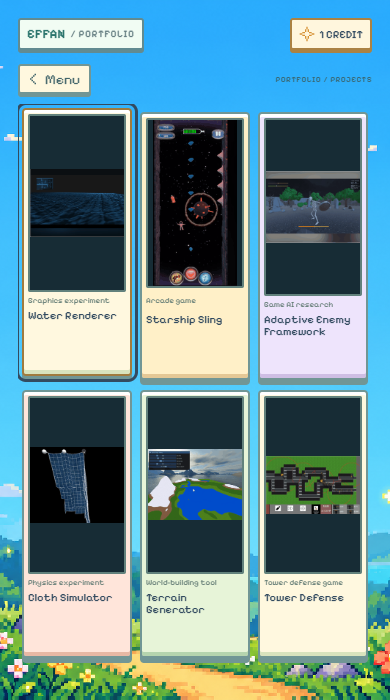
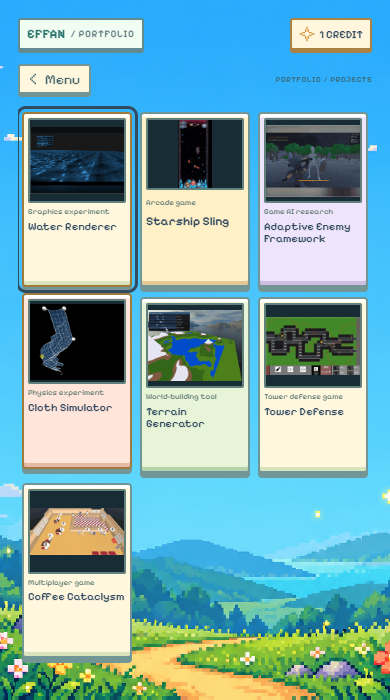
Added Coffee Cat Entry and optimized evth else

diff --git a/public/arcade-menu.css b/public/arcade-menu.css
@@ -243,8 +243,9 @@ body[data-view="projects"] main, body[data-view="detail"] main, body[data-view="
 .back-button:focus-visible, .project-card:focus-visible, .project-detail-scroll:focus-visible, .experience-list:focus-visible, .contact-link:focus-visible { outline: 3px solid var(--ink); outline-offset: 3px; }
 body[data-view="projects"] { overflow: hidden; }
 body[data-view="projects"] .screen { min-height: 0; }
-.project-grid { display: grid; grid-template-columns: repeat(3, minmax(0, 1fr)); grid-template-rows: repeat(2, minmax(0, 1fr)); gap: 12px; flex: 1; min-height: 0; overflow: hidden; padding: 8px 4px 10px; }
+.project-grid { display: grid; grid-template-columns: repeat(4, minmax(0, 1fr)); grid-template-rows: repeat(2, minmax(0, 1fr)); gap: 12px; flex: 1; min-height: 0; overflow: hidden; padding: 8px 4px 10px; }
 .project-grid > .card-float { min-height: 0; }
+.project-grid > .card-float[data-project="starship-sling"] { grid-column: span 2; }
 .project-card {
   display: flex; flex-direction: column; width: 100%; min-width: 0; height: 100%; min-height: 0; padding: 6px;
   border: 2px solid #719695; border-radius: 4px; background: #fff8df; color: var(--ink);
@@ -278,8 +279,8 @@ body[data-view="projects"] .screen { min-height: 0; }
 .project-story p { margin: 0 0 12px; }
 .project-story p:last-child { margin-bottom: 0; }
 /* Starship Sling is a portrait phone recording (368 x 732). */
-.project-card[data-project="starship-sling"] { display: grid; grid-template-columns: minmax(0, 1fr) minmax(0, 1fr); grid-template-rows: auto 1fr; gap: 4px 6px; }
-.project-card[data-project="starship-sling"] .project-preview { grid-row: 1 / 3; height: auto; aspect-ratio: 92 / 183; max-height: 100%; align-self: center; }
+.project-card[data-project="starship-sling"] { display: grid; grid-template-columns: minmax(0, 1fr) minmax(0, 1fr); grid-template-rows: auto 1fr; gap: 4px 8px; }
+.project-card[data-project="starship-sling"] .project-preview { grid-row: 1 / 3; width: auto; height: 100%; aspect-ratio: 92 / 183; max-height: 100%; align-self: center; justify-self: center; }
 .project-card[data-project="starship-sling"] .project-card-category { align-self: end; margin-top: 0; }
 .project-card[data-project="starship-sling"] .project-card-title { min-height: 0; margin-top: 0; }
 #project-detail-view[data-project="starship-sling"] .project-detail-scroll { display: grid; grid-template-columns: minmax(0, 142px) minmax(0, 1fr); gap: 0 18px; align-content: start; }
@@ -341,7 +342,7 @@ body[data-view="projects"] .screen { min-height: 0; }
 @keyframes view-arrive { from { opacity: 0; transform: translateY(8px); } to { opacity: 1; transform: translateY(0); } }
 @media (max-width: 480px) {
   .view-location { font-size: 8px; letter-spacing: .5px; }
-  .project-grid { gap: 10px 8px; }
+  .project-grid { grid-template-columns: repeat(3, minmax(0, 1fr)); grid-template-rows: repeat(3, minmax(0, 1fr)); gap: 10px 8px; }
   .project-card { padding: 4px; }
   .project-card-category { font-size: 8px; }
   .project-card-title { min-height: 5.5em; font-size: 11px; }

diff --git a/public/arcade-projects.js b/public/arcade-projects.js
@@ -67,5 +67,17 @@ const arcadeProjects = [
       'A tower defense game with procedurally generated maps, A* pathfinding for enemy navigation, and wave-based spawning and progression.',
       'Turrets target enemies and fire projectiles. Tower upgrades and in-game resource and economy systems support the defense strategy.'
     ]
+  },
+  {
+    id: 'coffee-cataclysm',
+    title: 'Coffee Cataclysm',
+    file: 'Coffee.gif',
+    detailPreview: 'gif',
+    category: 'Multiplayer game',
+    summary: 'A cooperative coffee-shop adventure with networked gameplay and a procedural forest.',
+    paragraphs: [
+      'Implemented multiplayer sessions for up to four players, synchronizing player and gameplay state. Built networked held-item interactions, coffee preparation, customer orders, and RPC-based gameplay actions.',
+      'Contributed character classes, combat, enemies, weapons, and companion systems, along with chunk-based procedural forest generation and game-state transitions.'
+    ]
   }
 ];

diff --git a/public/arcade-menu.js b/public/arcade-menu.js
@@ -33,6 +33,7 @@ function buildProjectCards() {
   arcadeProjects.forEach((project, index) => {
     const float = document.createElement('div');
     float.className = 'card-float';
+    float.dataset.project = project.id;
     const card = document.createElement('button');
     card.type = 'button';
     card.className = 'project-card';

diff --git a/design-qa.md b/design-qa.md
@@ -42,10 +42,10 @@ The saved verification scripts reproduce the local checks. Existing blue-design 
 
 The user's two additional sketches specify a grid of GIF cards followed by a detail view with the selected GIF at the left, explanatory text beside it, and more text below. The implementation keeps this arrangement at the arcade viewport, preserving the existing colorful theme.
 
-- Activating Projects opens six projects with animated previews: Water Renderer, Starship Sling, Adaptive Enemy Framework, Cloth Simulator, Terrain Generator and Tower Defense.
+- Activating Projects opens seven projects with animated previews: Water Renderer, Starship Sling, Adaptive Enemy Framework, Cloth Simulator, Terrain Generator, Tower Defense and Coffee Cataclysm.
 - Every GIF uses `object-fit: contain` to preserve the complete landscape or portrait preview. Previews are created only when the Projects grid first opens.
 - Each card opens its matching preview, category, title, summary and two explanatory paragraphs. Copy is editable in `public/arcade-projects.js`.
-- All six complete card names and full explanations fit the 610 x 530 display. Three columns and two rows remain visible without scrolling. The header and back controls stay above the grid.
+- All seven complete card names and full explanations fit the 610 x 530 display. Four columns and two rows remain visible without scrolling. Narrow screens use three columns and three rows. The header and back controls stay above the grid.
 - The gallery heading and intro, story caption and keyboard hint bar are removed, along with the JavaScript references and CSS for those elements. Keyboard navigation remains functional.
 - Native mouse clicks, Enter activation, arrow keys, Home/End, previous/next wrapping and Escape navigation passed. Going back restores the selected card and focus.
 - At 390 x 700, the gallery retains three columns and two visible rows. The detail view stacks the GIF above its text; all explanatory text is reachable without horizontal clipping.
@@ -68,15 +68,15 @@ The user's two additional sketches specify a grid of GIF cards followed by a det
 
 ## GIF preview optimization
 
-- Restored animated GIFs in all six gallery cards, replacing their static thumbnails. They are still created only when Projects opens, with lazy loading and asynchronous decoding.
-- Reduced the six GIFs from 49,009,648 bytes to 6,961,787 bytes (85.8% smaller). Each has a maximum dimension of 256px, 7-8 fps, a 128-color palette and infinite looping. All clip durations remain within one frame of their sources.
+- Restored animated GIFs in all seven gallery cards, replacing their static thumbnails. They are still created only when Projects opens, with lazy loading and asynchronous decoding.
+- Reduced the seven GIFs from 78,121,834 bytes to 7,731,110 bytes (90.1% smaller). Each has a maximum dimension of 256px, 7-8 fps, a 128-color palette and infinite looping. All clip durations remain within one frame of their sources.
 - Full-size sources were backed up outside public. The optimization script validates size reduction, duration, infinite-loop metadata and complete decoding of every output before replacing the files. Per-file measurements are in design/arcade-menu/gif-optimization.json.
-- The browser check confirms all six cards load the resized GIFs and the preview visibly changes between captured frames. The three-column, two-row layout, detail navigation, keyboard controls and mobile layout pass with no console errors.
+- The browser check confirms all seven cards load the resized GIFs and the preview visibly changes between captured frames. The four-column, two-row desktop layout, detail navigation, keyboard controls and three-column mobile layout pass with no console errors.
 - Existing WebM detail previews are retained; Tower Defense uses its optimized GIF. The production build passes with the existing large JavaScript chunk warning.
 
 ## Starship Sling portrait preview
 
 - Uses the mobile recording's 368 x 732 aspect ratio (92:183) for a tall desktop card preview and a larger portrait detail frame. The description sits alongside the detail preview; narrow screens stack it below.
 - Preview media is constrained to its frame with object-fit contain so the complete recording remains visible, including the top HUD and bottom controls.
-- Browser checks confirm portrait frame geometry, video decoding, media bounds and the mobile layout. All six cards still fit the three-column, two-row grid, and navigation and the production build pass.
+- Browser checks confirm portrait frame geometry, video decoding, media bounds and the mobile layout. All seven cards fit the four-column desktop and three-column mobile grids, and navigation and the production build pass.
 - Evidence: design/arcade-menu/project-starship-610x530.png and design/arcade-menu/project-starship-390x700.png.

diff --git a/design/arcade-menu/README.md b/design/arcade-menu/README.md
@@ -10,13 +10,13 @@ The page uses `public/arcade-menu.css` and `public/arcade-menu.js`. Selection em
 
 ## Projects
 
-Activating Projects opens six project cards with animated previews: Water Renderer, Starship Sling, Adaptive Enemy Framework, Cloth Simulator, Terrain Generator and Tower Defense. The grid keeps three columns and two rows visible together, including on narrow screens. Clicking a card opens its preview beside the project name and summary, with explanatory paragraphs below, following the supplied sketches.
+Activating Projects opens seven project cards with animated previews: Water Renderer, Starship Sling, Adaptive Enemy Framework, Cloth Simulator, Terrain Generator, Tower Defense and Coffee Cataclysm. The arcade grid uses four columns and two rows; narrow screens use three columns and three rows. Clicking a card opens its preview beside the project name and summary, with explanatory paragraphs below, following the supplied sketches.
 
 Project names, GIF paths, summaries and explanatory paragraphs are in `public/arcade-projects.js`. The Adaptive Enemy Framework retains the original reinforcement-learning GIF while describing its Unity AI pipeline.
 
 Arrow keys move through cards; Enter opens a project. The detail arrows switch projects. Escape and the back buttons return to the grid and main menu, restoring selection and focus. GIFs load when the gallery first opens. Narrow screens keep the same grid and use a stacked detail layout.
 
-The grid uses looping GIFs resized to a maximum dimension of 256px, capped at 8 fps with a 128-color palette. The six files total 6.96 MB instead of 49.01 MB (85.8% smaller), with full clip durations preserved within one frame. Detail pages retain their existing WebM previews; Tower Defense uses its optimized GIF.
+The grid uses looping GIFs resized to a maximum dimension of 256px, capped at 8 fps with a 128-color palette. The seven files total 7.73 MB instead of 78.12 MB (90.1% smaller), with full clip durations preserved within one frame. Detail pages retain their existing WebM previews; Tower Defense and Coffee Cataclysm use their optimized GIFs.
 
 Starship Sling keeps its source portrait aspect ratio (368 x 732, or 92:183). Its desktop card places a vertical preview beside the label. The detail view uses a larger portrait frame with the description alongside it; narrow screens stack the portrait preview above the text. Media is contained within its frame so the full recording remains visible.
 
@@ -31,7 +31,8 @@ The keyboard hint bar, gallery heading, intro and story caption are removed. The
 - `adventure-menu-390x700.png`: mobile layout.
 - `adventure-menu-in-cabinet.png`: actual 3D cabinet integration.
 - `adventure-browser-verification.json` and `adventure-cabinet-verification.json`: passing checks.
-- `projects-grid-610x530.png` and `project-*-610x530.png`: both visible gallery rows and the five existing detail captures. `projects-grid-more-610x530.png` is an earlier scrolling-layout capture.
+- `projects-grid-610x530.png` and `projects-grid-390x700.png`: the four-column arcade and three-column mobile galleries. `project-*-610x530.png` includes detail captures for all seven projects, including Coffee Cataclysm.
+- `project-coffee-390x700.png`: Coffee Cataclysm detail on a narrow screen.
 - `projects-grid-390x700.png` and `project-terrain-390x700.png`: narrow layouts.
 - `projects-grid-in-cabinet.png` and `project-detail-in-cabinet.png`: project navigation on the actual cabinet display.
 - `projects-verification.json`: gallery, detail, keyboard and mobile checks.
